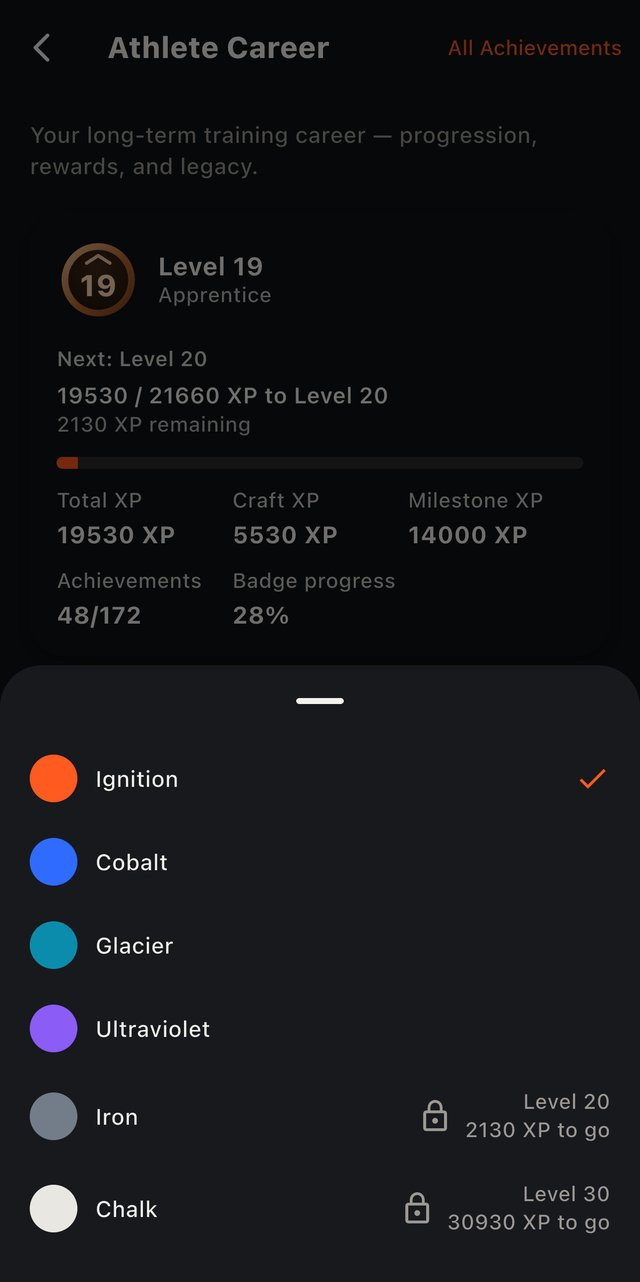
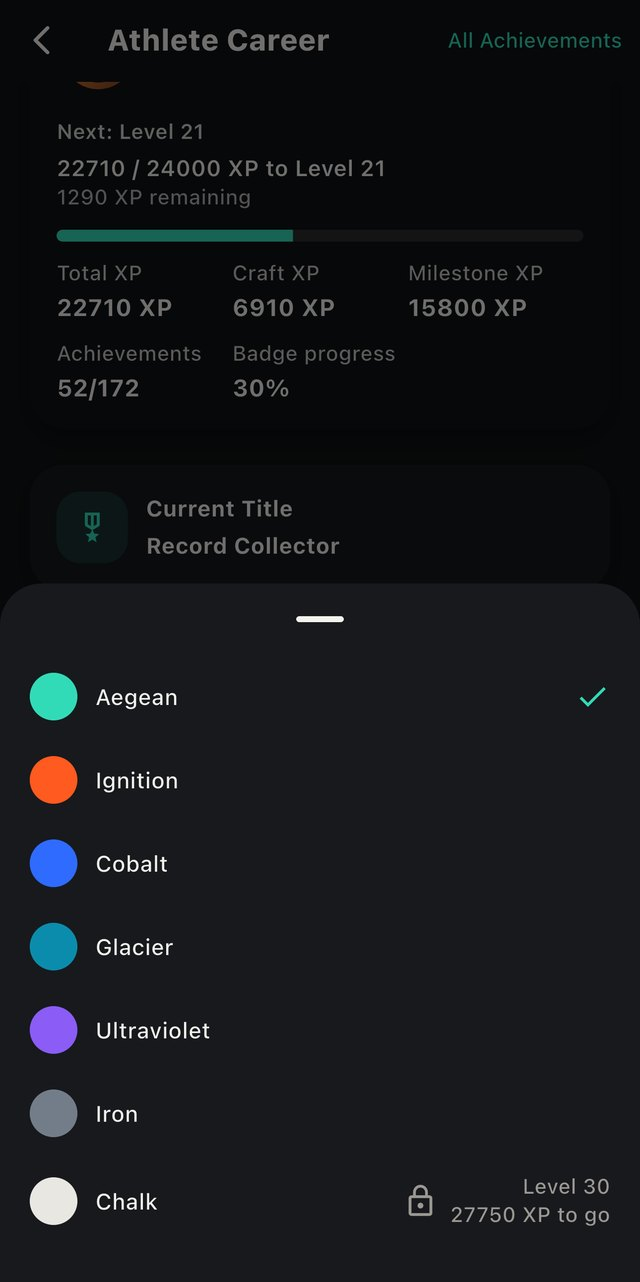
Screenshots and share image: new brand

diff --git a/index.html b/index.html
@@ -12,14 +12,14 @@
   <meta property="og:title" content="Kompsatos — evidence-based training app for iPhone">
   <meta property="og:description" content="A training app built by a physiotherapist who lifts. Every rule inside comes with its source. Join the iPhone beta.">
   <meta property="og:url" content="https://www.kompsatos.com/">
-  <meta property="og:image" content="https://www.kompsatos.com/img/og.png">
+  <meta property="og:image" content="https://www.kompsatos.com/og.png">
   <meta property="og:image:width" content="1200">
   <meta property="og:image:height" content="630">
   <meta property="og:image:alt" content="Kompsatos: train by the evidence. Evidence-based training app for iPhone, built by a physiotherapist.">
   <meta name="twitter:card" content="summary_large_image">
   <meta name="twitter:title" content="Kompsatos — evidence-based training app for iPhone">
   <meta name="twitter:description" content="A training app built by a physiotherapist who lifts. Every rule inside comes with its source. Join the iPhone beta.">
-  <meta name="twitter:image" content="https://www.kompsatos.com/img/og.png">
+  <meta name="twitter:image" content="https://www.kompsatos.com/og.png">
   <meta name="theme-color" content="#101214">
   <link rel="icon" href="/favicon.ico" sizes="32x32">
   <link rel="icon" href="/favicon.svg" type="image/svg+xml">
@@ -100,7 +100,7 @@
         </div>
         <p class="fine">Free, through Apple's TestFlight: open the link on your iPhone. On Android, or the beta is full? <a href="https://tally.so/r/2EMQMA">Join the waitlist</a>.</p>
       </div>
-      <div class="phone"><img src="career.jpg" alt="Kompsatos Athlete Career screen: level 19, total XP, 48 of 172 achievements and the title Record Collector" width="640" height="1282" fetchpriority="high" decoding="async"></div>
+      <div class="phone"><img src="career.jpg" alt="Kompsatos Athlete Career screen: level 20, 22710 XP, 52 of 172 achievements, the title Record Collector and the Aegean accent colour" width="640" height="1282" fetchpriority="high" decoding="async"></div>
     </div>
   </div>
 
@@ -132,9 +132,9 @@
       </div>
 
       <div class="shots">
-        <figure><div class="phone"><img src="records.jpg" alt="Workout log with one record badge per set: rep records on Preacher Curl and Spider Curl, no badge on a jump to a different machine" width="640" height="1282" loading="lazy" decoding="async"></div><figcaption>One badge per set, only for real records</figcaption></figure>
+        <figure><div class="phone"><img src="records.jpg" alt="Personal Records screen: the latest records per exercise and per machine, with rep, volume, max-weight and estimated 1RM records" width="640" height="1282" loading="lazy" decoding="async"></div><figcaption>Records per exercise and per machine</figcaption></figure>
         <figure><div class="phone"><img src="achievements.jpg" alt="Strength achievements with progress towards personal-record and strength goals" width="640" height="1282" loading="lazy" decoding="async"></div><figcaption>Achievements that track real progress</figcaption></figure>
-        <figure><div class="phone"><img src="accents.jpg" alt="Accent colour picker with Ignition selected; Iron and Chalk unlock at levels 20 and 30" width="640" height="1282" loading="lazy" decoding="async"></div><figcaption>Colours that unlock as you level up</figcaption></figure>
+        <figure><div class="phone"><img src="accents.jpg" alt="Accent colour picker with Aegean selected; Chalk unlocks at level 30" width="640" height="1282" loading="lazy" decoding="async"></div><figcaption>Colours that unlock as you level up</figcaption></figure>
       </div>
     </div>
   </section>

diff --git a/privacy.html b/privacy.html
@@ -11,7 +11,7 @@
   <meta property="og:title" content="Privacy policy — Kompsatos">
   <meta property="og:description" content="What personal data Kompsatos collects, why, where it is stored and how to export or delete it. No ads, no analytics, no tracking.">
   <meta property="og:url" content="https://www.kompsatos.com/privacy.html">
-  <meta property="og:image" content="https://www.kompsatos.com/img/og.png">
+  <meta property="og:image" content="https://www.kompsatos.com/og.png">
   <meta name="twitter:card" content="summary_large_image">
   <meta name="theme-color" content="#101214">
   <link rel="icon" href="/favicon.ico" sizes="32x32">
